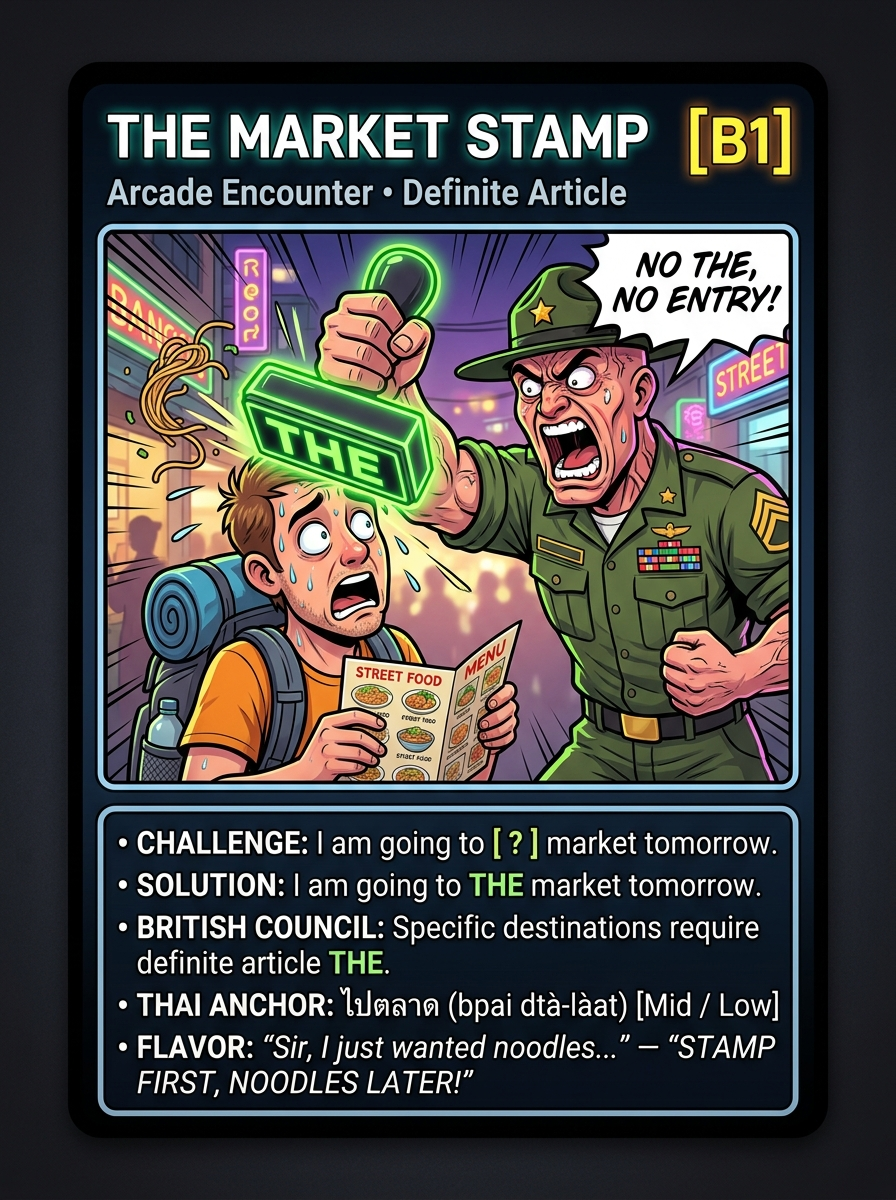
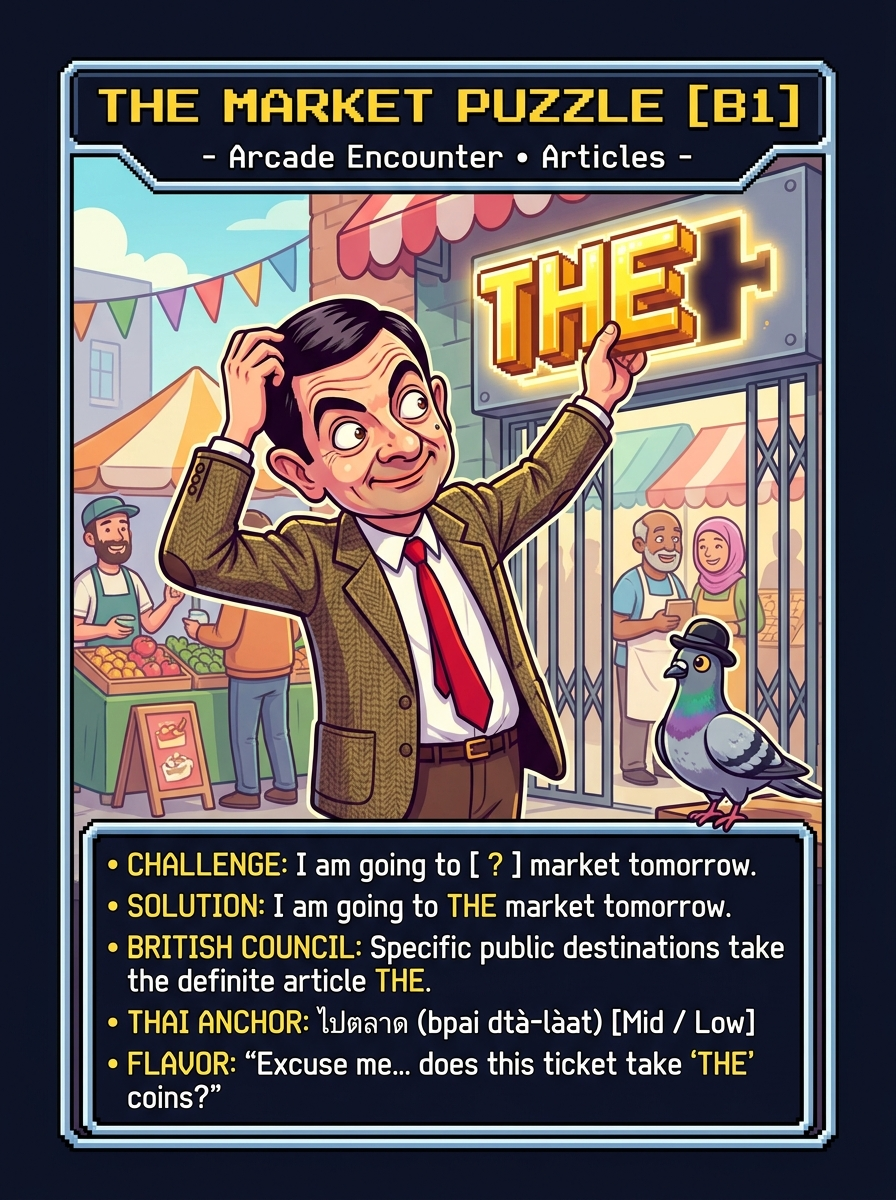
docs: replace card asset with charming British comic illustration (The Market Puzzle B1)

diff --git a/README.md b/README.md
@@ -3,8 +3,8 @@
 > Automated CEFR formative assessment and cued-recall spaced repetition engine for English language learners, with contrastive L1 Thai phonetic anchoring.
 
 <div align="center">
-  <img src="docs/assets/market_stamp_card.jpg" alt="Linguo Cued-Recall Arcade Card" width="380" />
-  <p><sub>Figure 1: Actual cued-recall card generated by Linguo (The Market Stamp, B1). Synthesizes single-blank retrieval, British Council prescriptive rule, Thai Paiboon gloss, and comedic mnemonic framing.</sub></p>
+  <img src="docs/assets/market_stamp_card.jpg" alt="Linguo The Market Puzzle B1 Card" width="380" />
+  <p><sub>Figure 1: Sample cued-recall card generated by Linguo (The Market Puzzle, CEFR B1). Combines single-blank active retrieval, British Council prescriptive grammar rule, Thai Paiboon gloss, and British educational visual comedy.</sub></p>
 </div>
 
 ---
